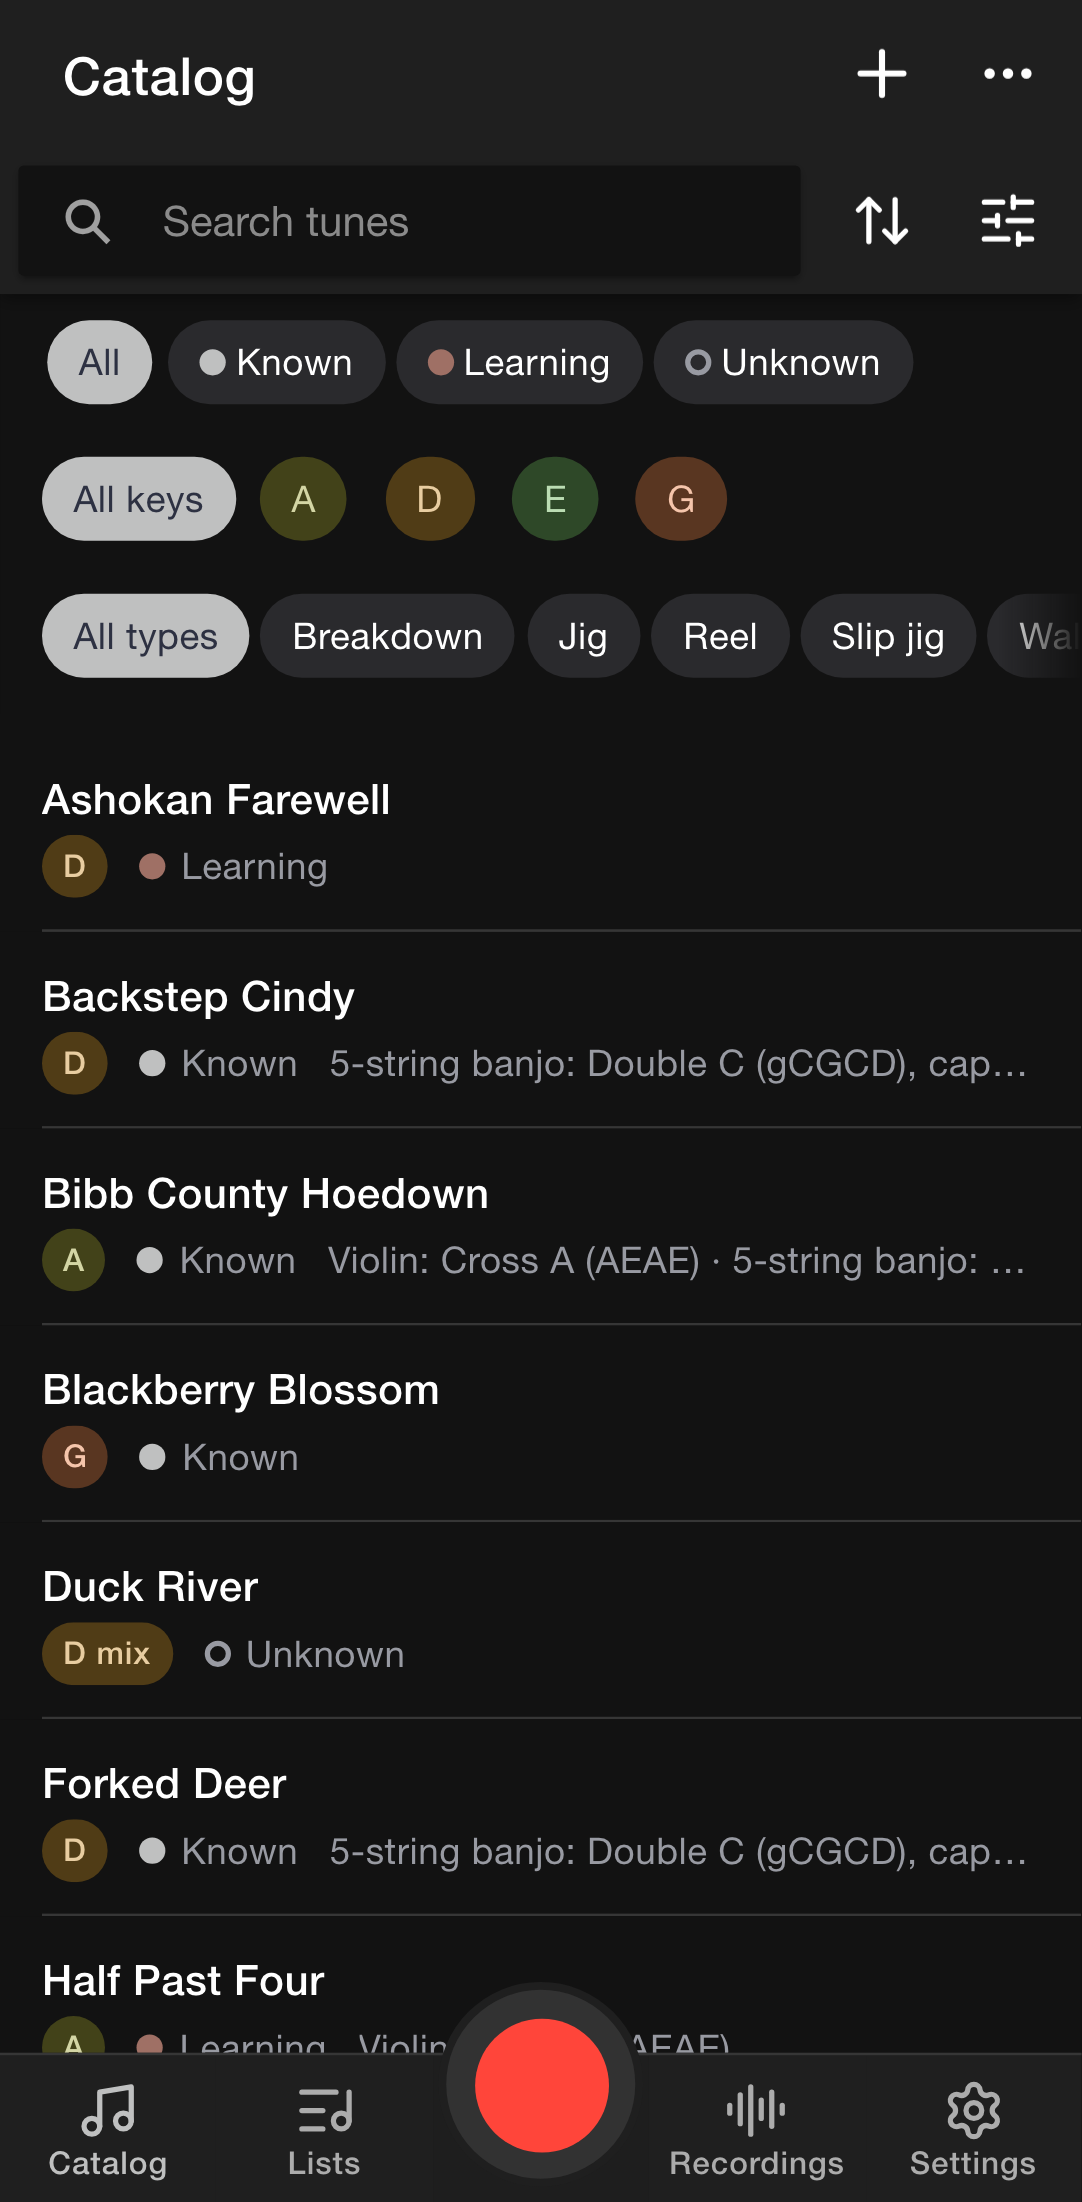
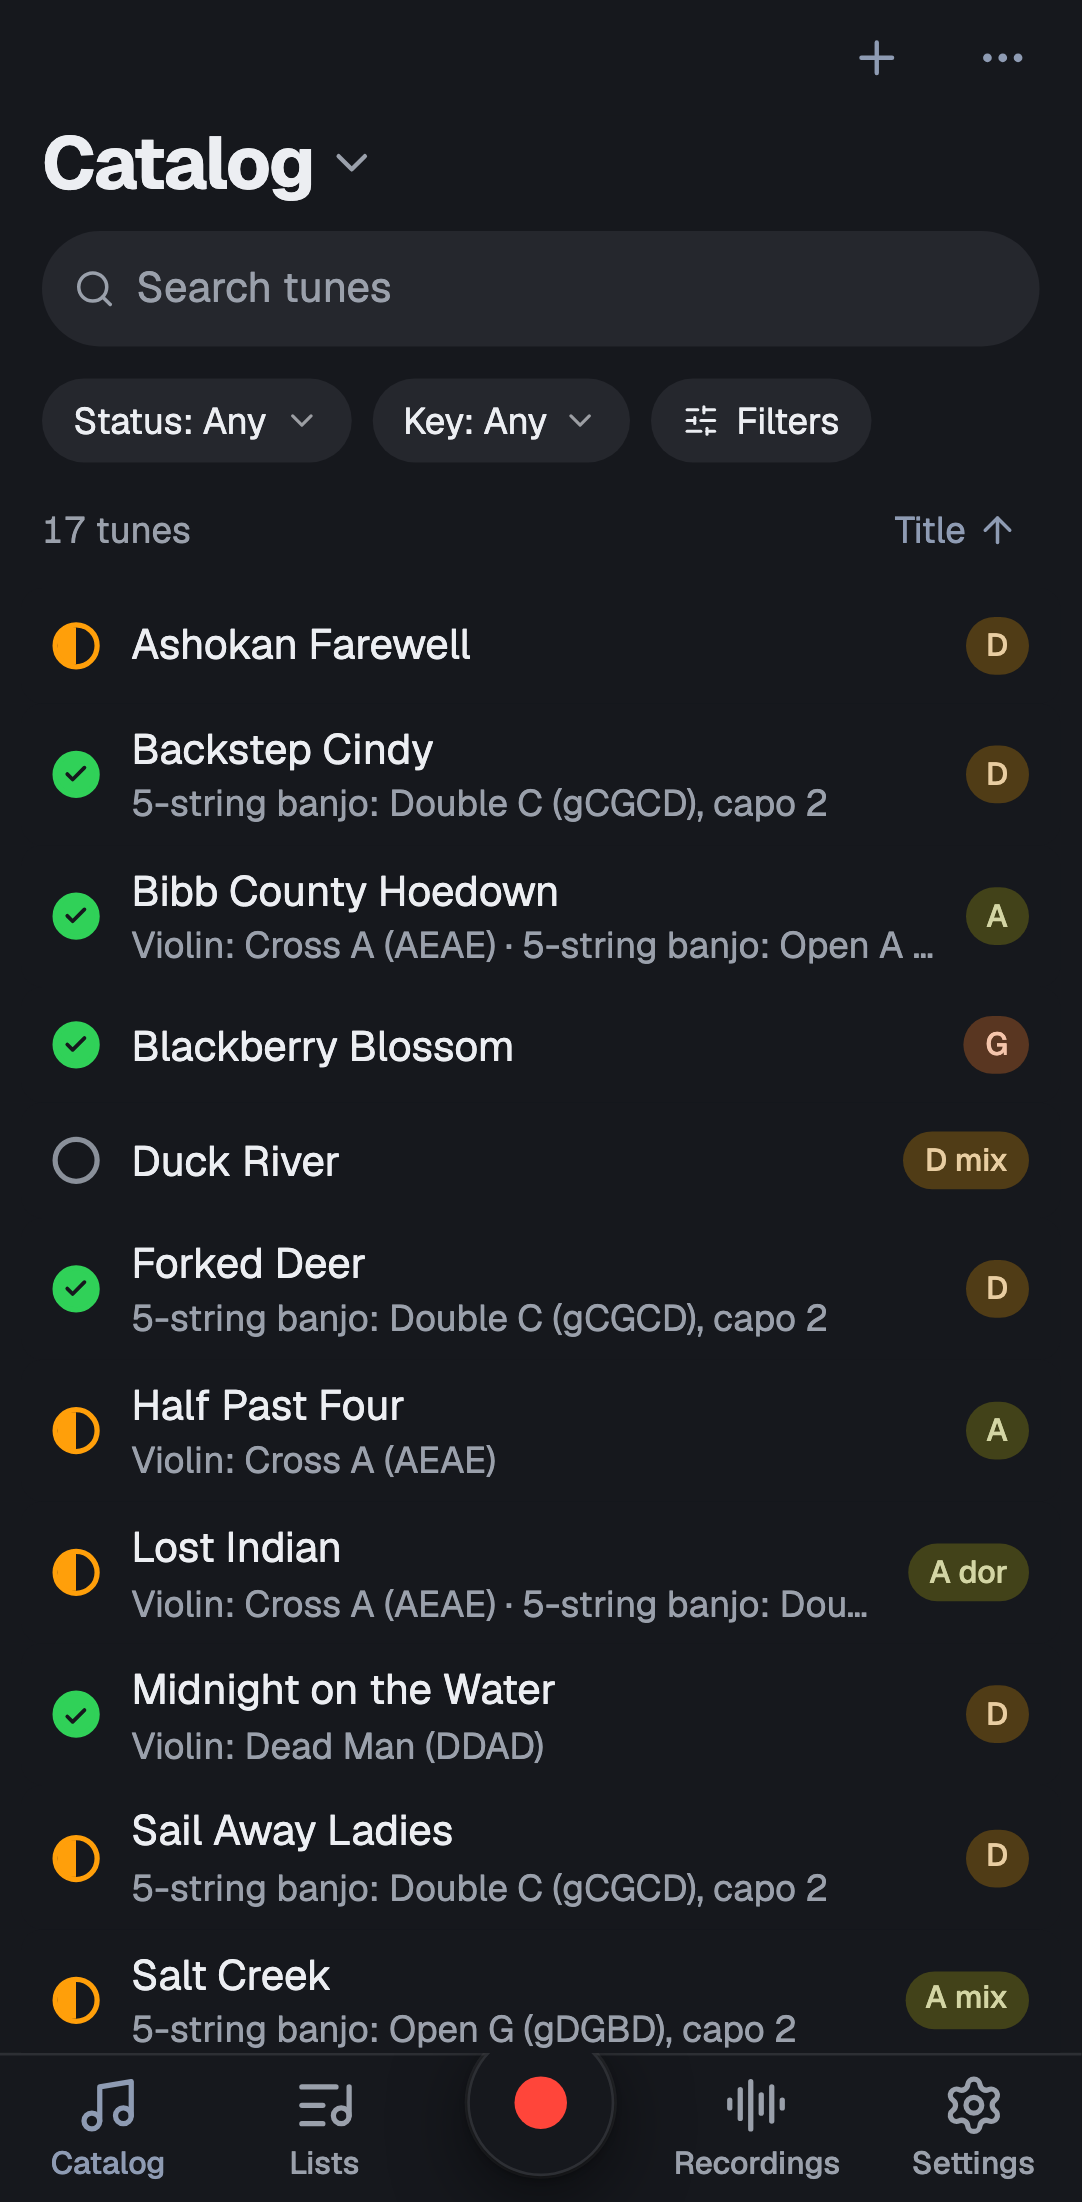
feat(site): show the new web client in the captures
The capture script finds the catalog's grid and opens a tune on the
desktop still, so the site shows the web client as it now looks.

diff --git a/site/capture/web.ts b/site/capture/web.ts
@@ -7,13 +7,16 @@ import { dirname, join, resolve } from 'node:path'
 import { fileURLToPath } from 'node:url'
 import { clerk, clerkSetup, setupClerkTestingToken } from '@clerk/testing/playwright'
 import { chromium, devices } from 'playwright'
-import type { Page } from 'playwright'
+import type { BrowserContextOptions, Page } from 'playwright'
+import { TUNE } from '../../web/src/features/tune/tunePageCopy.ts'
 import { STILL_DIR } from './hosts.ts'
 
 /** Must match MARKETING_EMAIL in api/src/crosstune/ops/seed_marketing.py. */
 export const MARKETING_EMAIL = 'crosstune-marketing+clerk_test@example.com'
 
 const BASE_URL = 'http://localhost:5173'
+/** The tune the desktop still opens beside the list, the one the iPad still shows. */
+const OPEN_TUNE = 'Backstep Cindy'
 const root = resolve(dirname(fileURLToPath(import.meta.url)), '..', '..')
 
 async function signIn(page: Page): Promise<void> {
@@ -38,8 +41,31 @@ async function signIn(page: Page): Promise<void> {
 }
 
 async function waitForCatalog(page: Page): Promise<void> {
-  await page.getByRole('main').getByRole('listitem').first().waitFor({ timeout: 30_000 })
+  // The catalog's rows are a grid on every frame; on wide the page's main is the empty detail.
+  await page.getByRole('grid').getByRole('row').first().waitFor({ timeout: 30_000 })
   await page.evaluate(() => document.fonts.ready)
+}
+
+async function openTune(page: Page, title: string): Promise<void> {
+  // A row's name leads with the title, then its key, status, and tunings.
+  await page
+    .getByRole('grid')
+    .getByRole('row', { name: new RegExp(`^${title},`) })
+    .click()
+  await page
+    .getByRole('main', { name: TUNE })
+    .getByRole('heading', { level: 1, name: title })
+    .waitFor({ timeout: 30_000 })
+  await page.evaluate(async () => {
+    await Promise.all(
+      [...document.images]
+        .filter((img) => !img.complete)
+        .map((img) => img.decode().catch(() => {})),
+    )
+  })
+  // The click leaves the row hovered and focused; the still shows only its selection.
+  await page.mouse.move(0, 0)
+  await page.evaluate(() => (document.activeElement as HTMLElement | null)?.blur())
 }
 
 async function main() {
@@ -49,19 +75,26 @@ async function main() {
 
   const browser = await chromium.launch()
   try {
-    const targets = [
+    const targets: { name: string; options: BrowserContextOptions; open?: string }[] = [
       {
         name: 'family-web',
         options: { viewport: { width: 1440, height: 900 }, deviceScaleFactor: 2 },
+        open: OPEN_TUNE,
       },
       { name: 'family-android', options: devices['Pixel 7'] },
     ]
-    for (const { name, options } of targets) {
-      const context = await browser.newContext({ ...options, colorScheme: 'dark' })
+    for (const { name, options, open } of targets) {
+      // Reduced motion lands every transition at its end, so no still catches one midway.
+      const context = await browser.newContext({
+        ...options,
+        colorScheme: 'dark',
+        reducedMotion: 'reduce',
+      })
       try {
         const page = await context.newPage()
         await signIn(page)
         await waitForCatalog(page)
+        if (open) await openTune(page, open)
         await page.screenshot({ path: join(STILL_DIR, `${name}.png`) })
         console.log(`${name}: ${join(STILL_DIR, `${name}.png`)}`)
       } finally {

diff --git a/site/src/components/features.ts b/site/src/components/features.ts
@@ -178,7 +178,10 @@ export const FEATURES: readonly Feature[] = [
  */
 export const FAMILY = [
   { name: 'family-mac', alt: 'The Crosstune app for Mac, showing the tune list.' },
-  { name: 'family-web', alt: 'Crosstune in a desktop web browser, showing the tune list.' },
+  {
+    name: 'family-web',
+    alt: "Crosstune in a desktop web browser, with the tune list beside Backstep Cindy's page.",
+  },
   {
     name: 'family-ipad',
     alt: "Crosstune on iPad, with the tune list beside Backstep Cindy's recordings.",
